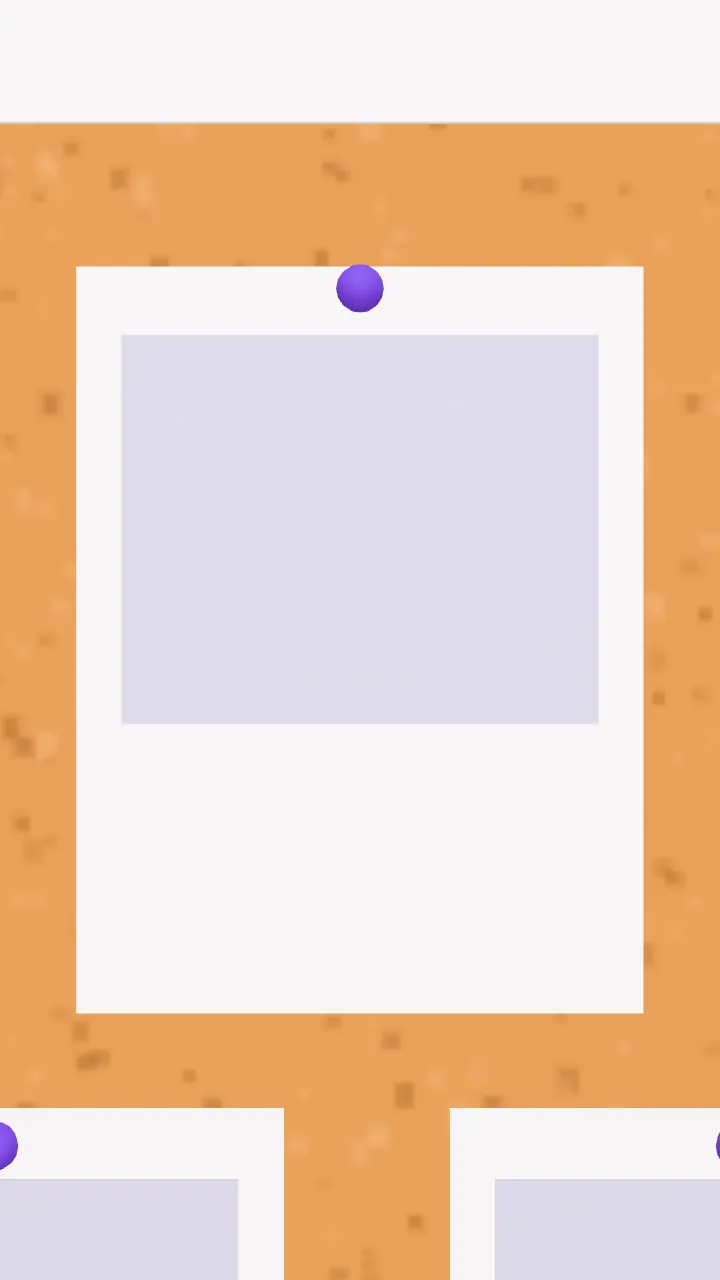
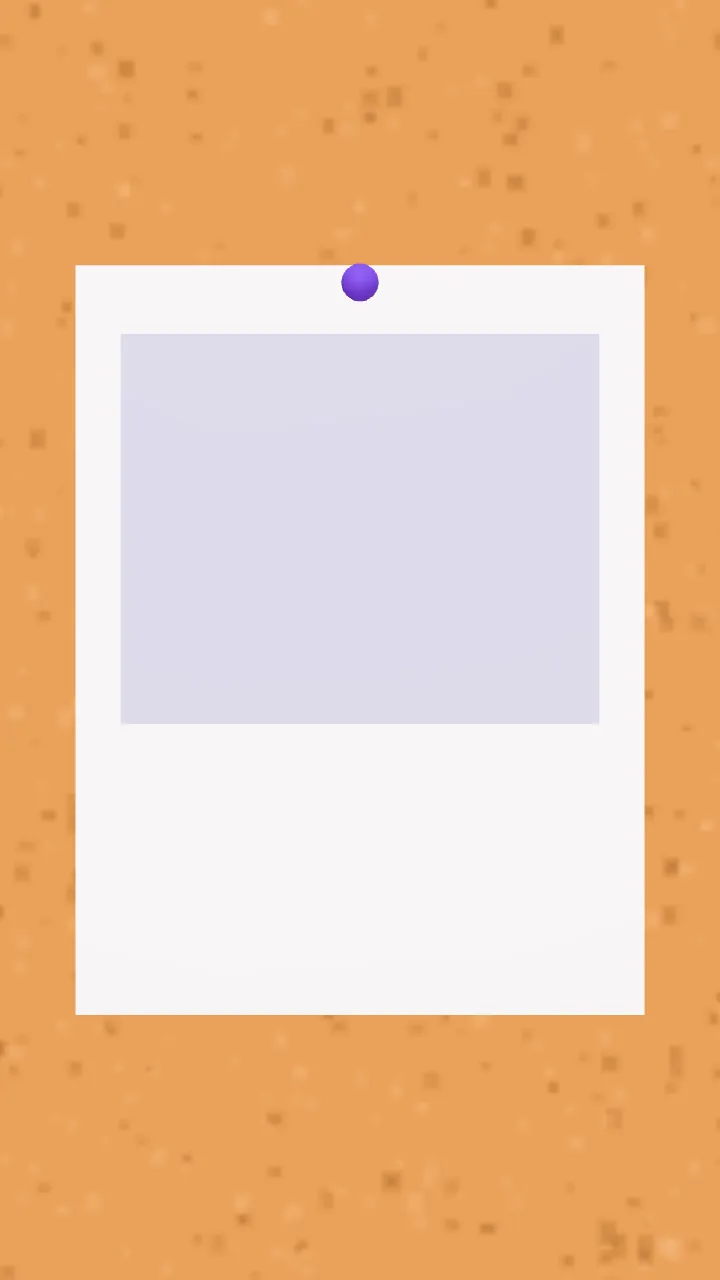
Cut the lobby corkboard's testimonials to three (#17)
The corkboard at K6 now carries 3 polaroids in one row, a little bigger
(0.52 x 0.685 m), centred under the title strip. On 9:16 the camera stops
4 times (the strip, then polaroids 1, 2, 3 left to right) over a 1.1-screen
hold (was 8 stops over 2.3), so each stop takes the same scroll as before;
the first stop looks lower so the whole board is in frame.

home.testimonials.items is 3 items (ID and EN). Stills PC K6 and 9:16
K6-K6d are re-rendered and K6e-K6h removed; the render and test tools
follow the 22.85-screen 9:16 take.

Refs #17

diff --git a/site/world/takes/home/lobby.ts b/site/world/takes/home/lobby.ts
@@ -69,12 +69,9 @@ const glassStop = (x: number, y: number, w: number) =>
 const P = BOARD_ITEMS.polaroids,
   B = RACK_ITEMS.books;
 const HP: Record<"K6" | "K7" | "K8", View[]> = {
-  // the strip with the title over the top row, then the polaroids: top row left to right, bottom row right to left
-  // (it ends on the left, where the truck goes on)
-  K6: [
-    boardStop(0, 0.42, BOARD_ITEMS.strip.w / 0.87),
-    ...[0, 1, 2, 3, 6, 5, 4].map((i) => boardStop(P[i].x, P[i].y, P[i].w / 0.8)),
-  ],
+  // the strip with the title over the polaroids, then the 3 polaroids left to right (issue #17: the row sits lower
+  // than the old top row, so the first stop looks lower too, the whole board in frame under the header)
+  K6: [boardStop(0, 0.18, BOARD_ITEMS.strip.w / 0.87), ...P.map((p) => boardStop(p.x, p.y, p.w / 0.8))],
   // the sign with the title, the three articles right to left, then the button on the bottom tier's left
   K7: [
     rackStop(0, L.sign.cy - F - 0.12, L.sign.w / 0.85),
@@ -94,7 +91,7 @@ const idx = (from: KeyName, type: "move" | "hold") => SEG.findIndex((s) => s.fro
 /** Plain hold starts (screens) of the three holds with copy, and when their copy leaves. */
 const holdOf = (k: "K6" | "K7" | "K8") => segmentStart(SEG, idx(k, "hold"));
 /**
- * The copy's anchors, each a rectangle on its prop's face, a few mm in front of it: the strip and the 7 polaroids
+ * The copy's anchors, each a rectangle on its prop's face, a few mm in front of it: the strip and the 3 polaroids
  * (K6), the sign, the top tier's 3 open books and the bottom tier's left book ("Lihat semua artikel", K7), the 8
  * sticky notes and the two bands over them on the meeting room's glass (K8, facing +x, so built here).
  */
@@ -108,13 +105,12 @@ export function lobbyAnchors(): { anchor: Anchor; hold: "K6" | "K7" | "K8"; stop
     hold: "K6",
     stop: 0,
   });
-  // 9:16: top row left to right, then the bottom row right to left (HP stops above)
-  const order = [0, 1, 2, 3, 6, 5, 4];
+  // 9:16: left to right after the strip (HP stops above)
   BOARD_ITEMS.polaroids.forEach((p, i) =>
     out.push({
       anchor: rectAnchor(`testi-${i}`, BX + p.x, by + p.y, bz + 0.0065, p.w / 2, p.h / 2),
       hold: "K6",
-      stop: order.indexOf(i) + 1,
+      stop: i + 1,
     }),
   );
   const Sg = L.sign;

diff --git a/site/world/takes/home/timing.ts b/site/world/takes/home/timing.ts
@@ -66,13 +66,14 @@ export const SEG: Segment<KeyName>[] = [
   { type: "hold", from: "K5a.6", screens: 0.3 },
   // Beats 6–9a (tahap 7, the team's videos K5a.6 → K9.1): through Kreatekno's door to the corkboard (K6), truck
   // left to the rack (K7), on left and round to the meeting room's glass (K8), turn to the facade (K9.1). Separate
-  // timelines (user, 11 Nov): `screens` is 9:16's, which stops on each item of a hold (7 polaroids, the sign and 3
+  // timelines (user, 11 Nov): `screens` is 9:16's, which stops on each item of a hold (3 polaroids, the sign and 3
   // books + the button, 2 × 4 sticky notes); `pc` is the scroll 16:9 takes, standing still on each keyframe with all
   // its items in frame (PLAN tahap 7, total ±5.1 screens). The dolly in is 2.0 screens (langkah 6, was 0.9): the
   // camera waits for Bu Dewi to be in and clear of its way, and at her pace (at most 1.8×) that takes ±2 s, so on a
   // steady scroll of 2 s per screen the camera no longer stands at the door while the scroll runs on.
   { type: "move", from: "K5a.6", to: "K6", screens: 2.0 },
-  { type: "hold", from: "K6", screens: 2.3, pc: 0.6 },
+  // issue #17: 3 polaroids (was 7), 4 stops in 1.1 screens (was 8 in 2.3): each stop takes the same scroll as before
+  { type: "hold", from: "K6", screens: 1.1, pc: 0.6 },
   { type: "move", from: "K6", to: "K7", screens: 0.5 },
   { type: "hold", from: "K7", screens: 1.4, pc: 0.5 },
   { type: "move", from: "K7", to: "K8", screens: 0.6 },
@@ -120,7 +121,7 @@ export function stopSpan(len: number, n: number, i: number) {
     from = i * (STOP.dwell + STOP.move) * unit;
   return { from, to: from + STOP.dwell * unit };
 }
-/** Number of 9:16 stops of each lobby hold (the strip and 7 polaroids; the sign, 3 books and the button; 2 × 4 notes). */
-export const LOBBY_STOPS = { K6: 8, K7: 5, K8: 2 } as const;
+/** Number of 9:16 stops of each lobby hold (the strip and 3 polaroids; the sign, 3 books and the button; 2 × 4 notes). */
+export const LOBBY_STOPS = { K6: 4, K7: 5, K8: 2 } as const;
 /** Where the whip pan to K2.2 fires, as a fraction of the K2.1 → K2.2 move (time-based from there, ±0.45 s). */
 export const WHIP_AT = 0.3;

diff --git a/site/world/sets/lobby.ts b/site/world/sets/lobby.ts
@@ -2,7 +2,7 @@
 // team's videos k6 - k5a.6, K6 -K7, K7 - K8, K8 - K9.1 and Master 10a/10b (where the videos never look), at the
 // sizes of sets/lobbyLayout: light wood floor, lavender walls with a purple skirting, a ceiling with light panels,
 // the glass facade from inside with two low steps (its frames and glass are Kreatekno's own, sets/row), the
-// corkboard (K6: 7 polaroids, the strip, 4 corner notes, purple pins), the two-tier rack with 6 open books and the
+// corkboard (K6: 3 polaroids, the strip, 4 corner notes, purple pins), the two-tier rack with 6 open books and the
 // wooden sign with brass nails (K7), potted plants, the meeting room behind its purple-framed glass (K8: the glass
 // door, the long table, lilac chairs, two laptops, the whiteboard, a window to the garden, the 8 sticky notes on
 // the glass), the reception desk with its slatted wall (Master 10a), and light backdrops: the park across the road
@@ -345,7 +345,7 @@ export function buildLobby(kit: Kit, M: RowMaterials, ao: AoTarget[]) {
     occ.push(...SB.occ);
   }
 
-  // ---------- corkboard (K6): purple frame, cork, the strip, 7 polaroids, 4 corner notes, purple pins ----------
+  // ---------- corkboard (K6): purple frame, cork, the strip, 3 polaroids, 4 corner notes, purple pins ----------
   const TB = new Tint();
   const Bd = L.board,
     bx = lx(Bd.cx),
@@ -396,7 +396,8 @@ export function buildLobby(kit: Kit, M: RowMaterials, ao: AoTarget[]) {
     for (const sx of [-1, 1]) pin(S.x + sx * (S.w / 2 - 0.05), S.y, bz + 0.004);
     for (const p of BOARD_ITEMS.polaroids) {
       card(p, COL.paper, 0.005);
-      card({ x: p.x, y: p.y + 0.08, w: p.w * 0.84, h: p.h * 0.52 }, COL.photo, 0.001, bz + 0.005);
+      // (the photo's place in shares of the card, as the copy's CSS puts it: 0.08 m up on the 0.54 m card)
+      card({ x: p.x, y: p.y + p.h * (0.08 / 0.54), w: p.w * 0.84, h: p.h * 0.52 }, COL.photo, 0.001, bz + 0.005);
       pin(p.x, p.y + p.h / 2 - 0.02, bz + 0.005);
     }
     for (const n of BOARD_ITEMS.notes) {

diff --git a/site/world/sets/lobbyLayout.ts b/site/world/sets/lobbyLayout.ts
@@ -76,18 +76,14 @@ export function lobbyFloor(x: number, z: number) {
 
 // ---------- copy surfaces, each a rectangle on its prop (centre and size in metres) ----------
 
-/** Corkboard, from its centre (x right as seen from the lobby, y up): the strip, 7 polaroids (4 + 3), 4 corner notes. */
+/**
+ * Corkboard, from its centre (x right as seen from the lobby, y up): the strip, 3 polaroids in one row, 4 corner
+ * notes. Issue #17: 3 testimonials (the video's 7 in two rows, 0.41 × 0.54 m, were cut to 3), a little bigger, centred
+ * between the strip and the board's bottom, their outer edges clear of the corner notes.
+ */
 export const BOARD_ITEMS = {
   strip: { x: 0, y: 0.62, w: 1.22, h: 0.15 } as Rect,
-  polaroids: [
-    { x: -0.8, y: 0.17 },
-    { x: -0.27, y: 0.17 },
-    { x: 0.27, y: 0.17 },
-    { x: 0.8, y: 0.17 },
-    { x: -0.53, y: -0.44 },
-    { x: 0, y: -0.44 },
-    { x: 0.53, y: -0.44 },
-  ].map((p) => ({ ...p, w: 0.41, h: 0.54 })) as Rect[],
+  polaroids: [-0.66, 0, 0.66].map((x) => ({ x, y: -0.13, w: 0.52, h: 0.685 })) as Rect[],
   notes: [
     [-1.1, 0.67],
     [1.1, 0.67],

diff --git a/site/components/home/lobbyStills.ts b/site/components/home/lobbyStills.ts
@@ -7,25 +7,9 @@ import { LOBBY_STOPS, SEG, stopSpan, type KeyName } from "@/world/takes/home/tim
 type Hold = keyof typeof LOBBY_STOPS;
 const HOLDS: Hold[] = ["K6", "K7", "K8"];
 const SUFFIX = "bcdefgh";
-/** Stills of one hold: on 9:16 one per stop (K6, K6b … K6h); on 16:9 the first, the others repeat it. */
+/** Stills of one hold: on 9:16 one per stop (K6, K6b … K6d); on 16:9 the first, the others repeat it. */
 const stopsOf = (h: Hold) => Array.from({ length: LOBBY_STOPS[h] }, (_, i) => (i ? `${h}${SUFFIX[i - 1]}` : h));
-export const LOBBY_KEYS = [
-  "K6",
-  "K6b",
-  "K6c",
-  "K6d",
-  "K6e",
-  "K6f",
-  "K6g",
-  "K6h",
-  "K7",
-  "K7b",
-  "K7c",
-  "K7d",
-  "K7e",
-  "K8",
-  "K8b",
-] as const;
+export const LOBBY_KEYS = ["K6", "K6b", "K6c", "K6d", "K7", "K7b", "K7c", "K7d", "K7e", "K8", "K8b"] as const;
 
 const idx = (from: KeyName, type: "move" | "hold") => SEG.findIndex((s) => s.from === from && s.type === type);
 const start = (from: KeyName, type: "move" | "hold") => segmentStart(SEG, idx(from, type));

diff --git a/site/components/home/props/Corkboard.tsx b/site/components/home/props/Corkboard.tsx
@@ -5,9 +5,9 @@ type Testimonial = { quote: string; name: string; business: string };
 
 /**
  * Beat 6 · Testimoni (tahap 7): the heading on the paper strip of the lobby's corkboard (K6), one testimonial on each
- * of its 7 polaroids: photo, quote, name, business. Until real quotes come in (with the client's permission, team
+ * of its 3 polaroids (issue #17, was 7): photo, quote, name, business. Until real quotes come in (with the client's permission, team
  * document) each card is a placeholder stamped CONTOH, replaced one by one in `home.testimonials.items`. Real HTML
- * rendered on the server; in the film the world places each block on its prop (anchors "board-strip", "testi-0..6")
+ * rendered on the server; in the film the world places each block on its prop (anchors "board-strip", "testi-0..2")
  * at its size on screen where the camera reads it, shows it at the K6 hold and hides it (not tabbable) otherwise.
  */
 export async function Corkboard() {

diff --git a/site/components/home/lobby.css b/site/components/home/lobby.css
@@ -342,8 +342,8 @@
     text-wrap: balance;
   }
 
-  /* the polaroids (0.41 × 0.54 m): the photo exactly where the 3D card prints its grey (sets/lobby: 84% of the
-     width, 52% of the height, its top 9.2% down), the quote and the name under it on the white paper */
+  /* the polaroids (0.52 × 0.685 m, issue #17): the photo exactly where the 3D card prints its grey (sets/lobby: 84%
+     of the width, 52% of the height, its top 9.2% down), the quote and the name under it on the white paper */
   .polaroid figure {
     position: absolute;
     inset: 0;

diff --git a/site/components/home/HomeStage.tsx b/site/components/home/HomeStage.tsx
@@ -33,7 +33,7 @@ const KEYS = [
   "K5a.4",
   "K5a.4b",
   "K5a.6",
-  // the lobby (tahap 7): on 9:16 one still per stop of a hold (K6: the strip, then the 7 polaroids; K7: the sign, the
+  // the lobby (tahap 7): on 9:16 one still per stop of a hold (K6: the strip, then the 3 polaroids; K7: the sign, the
   // 3 books, the button; K8: the left and the right two columns of notes)
   ...LOBBY_KEYS,
   "K9.1",

diff --git a/PLAN.md b/PLAN.md
@@ -1893,3 +1893,27 @@ Detail di **[PLAN-SOLUSI.md](PLAN-SOLUSI.md)**: sumber v1, arsitektur etalase, d
   - Frame dicek visual (hanya di chat). Typecheck, ESLint, Prettier dan `next build` lulus; `issue4.mjs` 73/73, `issue4-loading.mjs` 25/25.
   - Komentar Penyebab/Perbaikan/Dicek/Belum di issue #16 (issuecomment-6844191924).
 - Di-commit ke `main` setelah dikonfirmasi user ("commit"): hanya `site/components/home/stage.css` dan entri log ini. Belum: push dan tutup issue #16, tes HP fisik.
+
+### 2026-11-13 (issue #17: testimoni di papan lobi jadi tiga)
+
+- Penyebab (CR, bukan bug): papan K6 dibangun mengikuti frame akhir video `k6 - k5a.6`, 7 polaroid 0,41 × 0,54 m (4 + 3). Di HP kamera berhenti di strip lalu tiap polaroid: `LOBBY_STOPS.K6` 8, hold K6 HP 2,3 layar. Diukur di build produksi: HP 375×812 8 perhentian (17,30–19,61 layar, take 24,05), PC 1280×720 7 polaroid 169×223 px dengan kutipan di batas minimum 11 px.
+- Diubah:
+  - `world/sets/lobbyLayout.ts`: 3 polaroid satu baris di tengah papan, 0,52 × 0,685 m (1,27×), x −0,66 / 0 / 0,66, y −0,13 (tepi luar 0,92 m, catatan sudut mulai 1,015). Strip dan catatan sudut tetap.
+  - `world/sets/lobby.ts`: posisi foto abu-abu sebanding dengan tinggi kartu (0,08 m dari tengah pada kartu 0,54 m), supaya foto HTML (`cq`) tetap tepat di atasnya. Komentar.
+  - `world/takes/home/lobby.ts`: perhentian HP K6 = strip lalu polaroid 1, 2, 3 dari kiri ke kanan; anchor `testi-0..2` stop 1–3. Perhentian strip diturunkan (y 0,42 → 0,18 dari tengah papan) karena baris polaroid lebih rendah dari baris atas lama; seluruh papan masuk frame di bawah header.
+  - `world/takes/home/timing.ts`: `LOBBY_STOPS.K6` 8 → 4, hold K6 HP 2,3 → 1,1 layar (unit perhentian 1,01 → 1,03, tiap perhentian tetap 0,17 layar). Take 9:16 24,05 → 22,85 layar; PC tetap 21,5 layar scroll.
+  - `messages/{id,en}.json`: `home.testimonials.items` 3 item; alt `home.stage.k6` "tiga polaroid" / "three testimonial polaroids".
+  - Halaman: `lobbyStills.ts` (`LOBBY_KEYS` tanpa K6e–K6h), komentar `Corkboard.tsx`, `HomeStage.tsx`, `lobby.css`. Penanda `#testimoni` ikut sendiri dari `LOBBY_STOPS`.
+  - Still: PC K6 dan HP K6–K6d dirender ulang (`BASE=http://localhost:3300 stills.mjs 80 ...`), HP K6e–K6h dihapus, `stills.json` = versi HEAD + entri K6 baru. Still K7 PC/HP keluar identik byte per byte. Still K5a.6 PC/HP, K8 PC dan K9.1 HP ikut berubah saat dirender ulang tetapi bukan karena issue ini (lihat temuan); dikembalikan ke HEAD.
+  - Alat: `tools/render/lib.mjs` (`LOBBY_HP.K6` 1,1 dengan 4 kunci, `LOBBY_COPY`), komentar `stills.mjs`, take 22,85 di `issue4.mjs`, `issue4-loading.mjs`, `lobby.mjs`.
+- Dicek (build produksi port 3300, Playwright GPU, `?hud`, kamera lewat `jump` tanpa scroll; render hanya di chat):
+  - HP 375×812 dan 360×640, tablet 768×1024: 4 perhentian di hold K6 (17,30–18,40 layar), masing-masing 0,17 layar seperti sebelumnya; polaroid di perhentiannya 297×391 (375), 285×375 (360), 385×507 px (tablet), kutipan 18,4 / 17,7 / 23,8 px, 100% di dalam layar di bawah header. Di perhentian strip hanya copy polaroid tengah yang tampil (yang terpotong tepi pudar, aturan langkah 6).
+  - PC 1280×720: 3 polaroid 215×283 px, kutipan 13,3 px (sebelumnya 169×223, 11 px). 1920×1080: 322×424 px, kutipan 20 px. Tidak ada teks meluap, ID dan EN.
+  - `#testimoni`: PC 17,85 (tengah hold), HP/tablet 17,387 (perhentian strip).
+  - Dolly K5a.6 → K6 dan truck K6 → K7 di HP (sekarang dari polaroid kanan) mulus, tidak menembus apa pun. Bu Dewi tidak masuk frame selama hold K6 dan K6 → K7 di 375, 360 dan tablet (paling dekat 0,47 m dari sumbu badannya, di samping/belakang kamera di perhentian polaroid kanan).
+  - Fallback tanpa WebGL (375, 360, 768, 1280, 1920; ID dan EN): still K6, K6b, K6c, K6d bergantian per perhentian dengan copy strip / polaroid 1 / 2 / 3; PC 3 polaroid di still K6. Versi tumpuk (reduced motion, tanpa JS): 3 polaroid dan still K6.
+  - Console hanya 404 `/_vercel/insights/script.js`.
+  - `typecheck`, `lint`, `format:check` seluruh situs dan `next build` lulus.
+  - Regresi (build produksi port 3300): `issue4-loading.mjs` 25/25, `issue4.mjs` 73/73 setelah RAM dilegakan user (RAM bebas 540–1400 MB). Dua putaran sebelumnya dengan RAM bebas 62–102 MB gagal di kasus yang berbeda-beda, semuanya sebelum lobi: cek waktu scroll di layar 6,5–9,2 (tablet, lalu HP) dan timeout menunggu world siap.
+- Temuan (tidak diubah): still K5a.6 PC dan HP di repo dirender sebelum lobi asli terlihat lewat kaca fasad dan sebelum posisi Heru tahap 7; render ulang sekarang menampilkan lobi dan Heru di dalam pintu. Still K9.1 HP berbeda 332 piksel (tokoh), K8 PC 3 piksel.
+- Di-commit ke `main` setelah dikonfirmasi user ("Commit, jangan push"): hanya file #17 dan entri log ini; di `messages` hanya testimoni dan alt K6, di `stills.json` hanya entri K6. Belum: push dan tutup issue #17, tes HP fisik.
